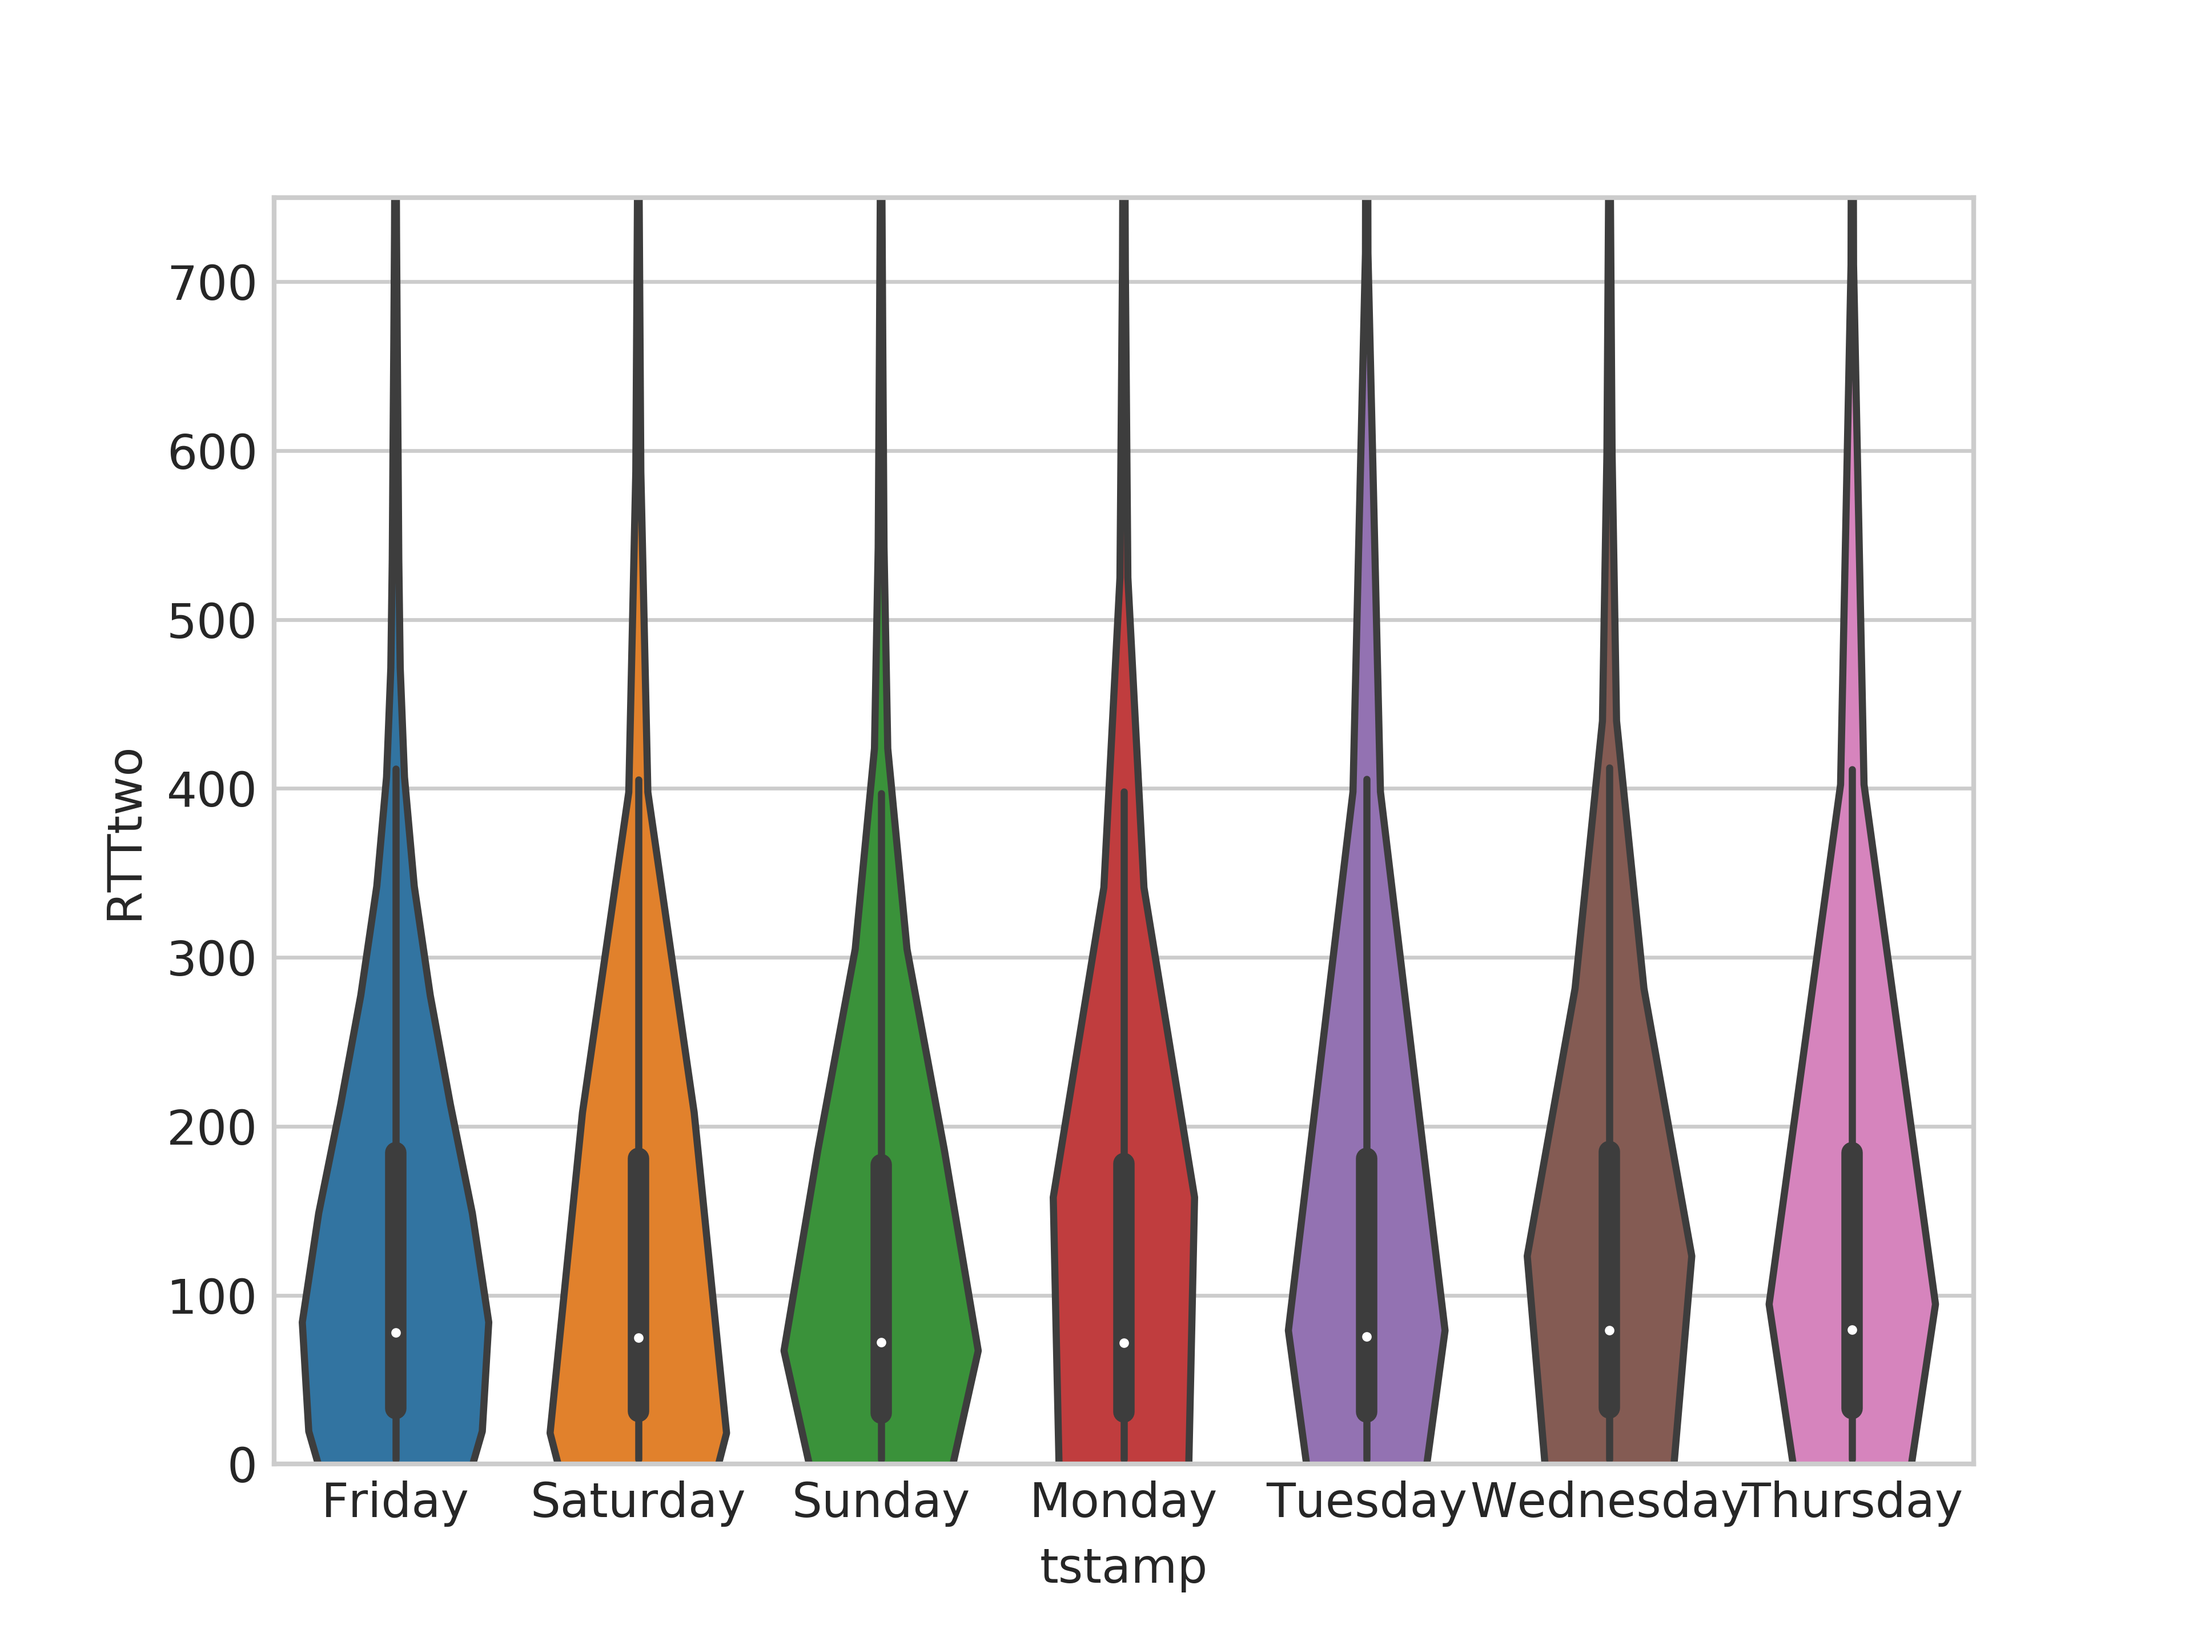
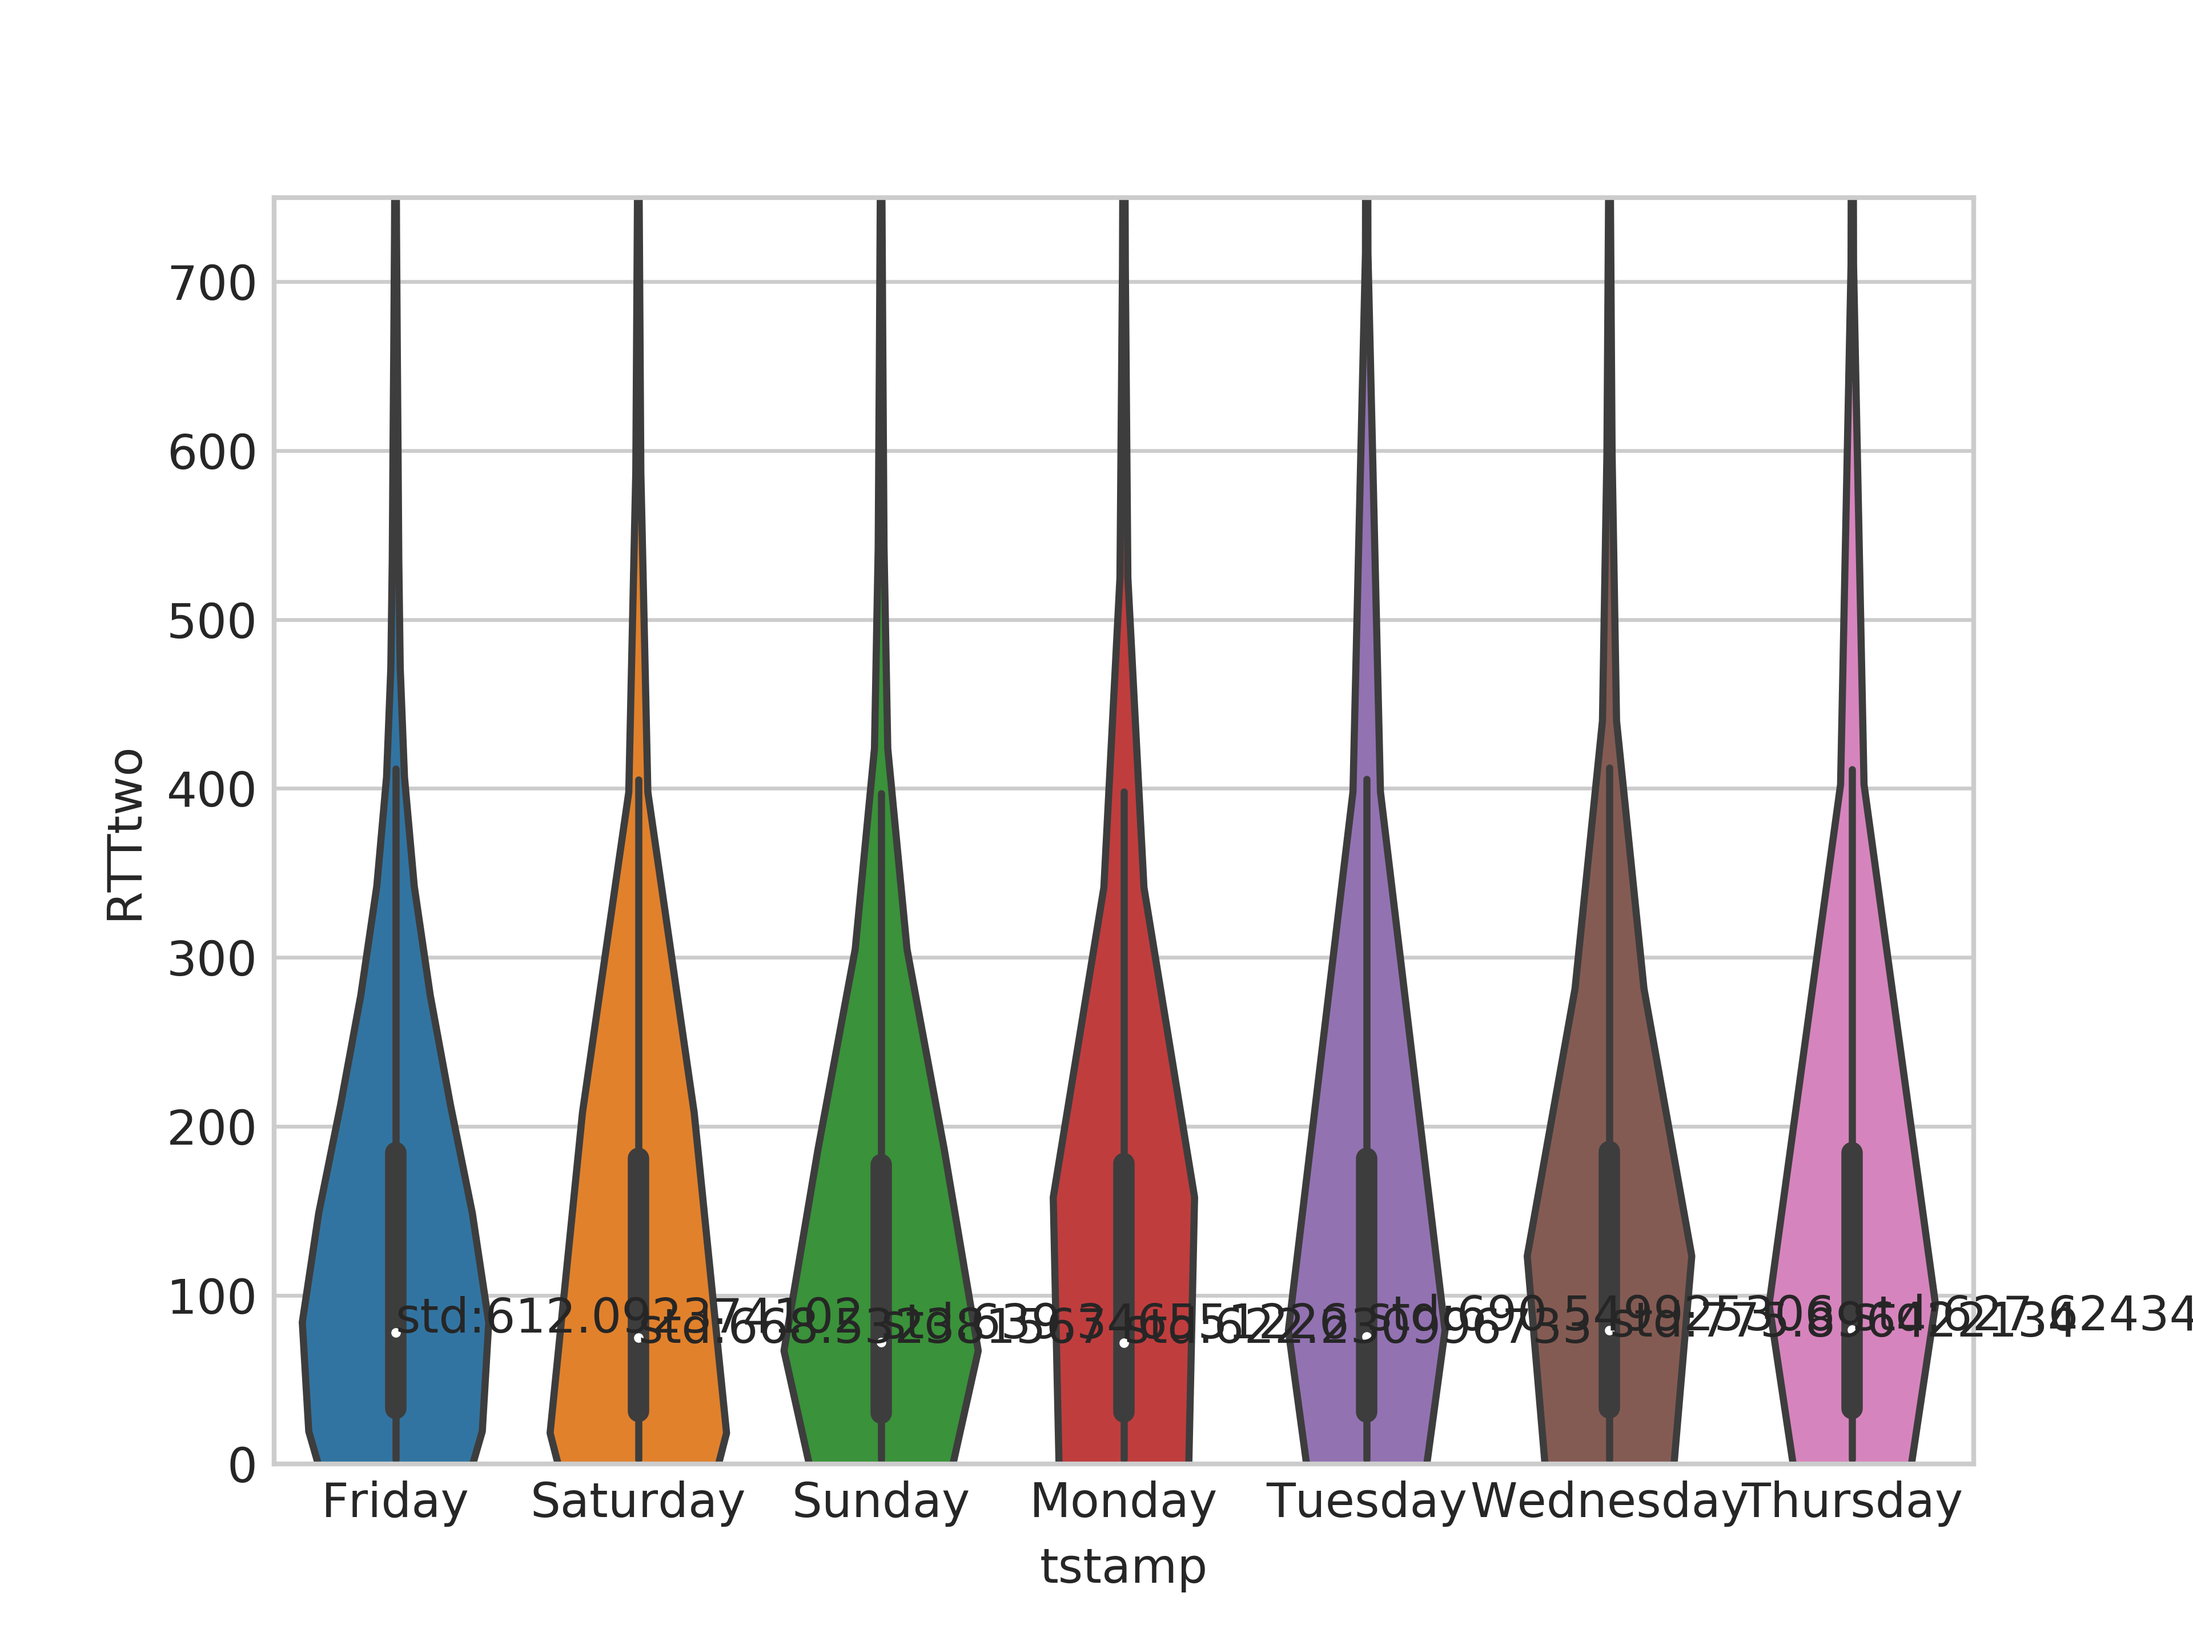
std on graphs, incorrect?

Changed region(s): [[0.1875, 0.7812, 1.0, 0.8125]]

diff --git a/scripts/analysis.py b/scripts/analysis.py
@@ -114,8 +114,19 @@ def create_plot_temporal(site, showfig = True, savefig = False, day = ['all'], s
 def create_plot_temporal_v(site = "aggregate", showfig = True, savefig = False, day = ['all'], fshow_hours = False, fshow_daily = False):
     dataf = clean_csv(site, show_hours = fshow_hours, show_daily = fshow_daily)
     sns.set_style("whitegrid")
+    yposlist = dataf.groupby(['tstamp'])['RTTtwo'].median().tolist()
+    # print(yposlist)
+    # print(dataf.groupby(['tstamp'])['RTTtwo'])
+    xposlist = range(len(yposlist))
+    grouped = dataf.groupby('tstamp')
+    print(np.std(dataf.RTTtwo, ddof=0))
+    print(np.mean(dataf.RTTtwo))
+    # print(grouped['RTTtwo'].agg('std'))
+    stringlist = ["std:" + str(x) for x in grouped['RTTtwo'].agg(np.std)]
     ax1 = plt.subplot(111)
     ax1 = sns.violinplot(x = 'tstamp', y = 'RTTtwo', data = dataf)
+    for i in range(len(stringlist)):
+        ax1.text(xposlist[i], yposlist[i], stringlist[i])
     ax1.set_ylim([0, 750])
     plt.savefig('graphs/VIOLIN-of-weekly' + site.replace('www.','') + '.png', dpi = 600) if savefig else {}
     plt.show() if showfig else {plt.close()}
